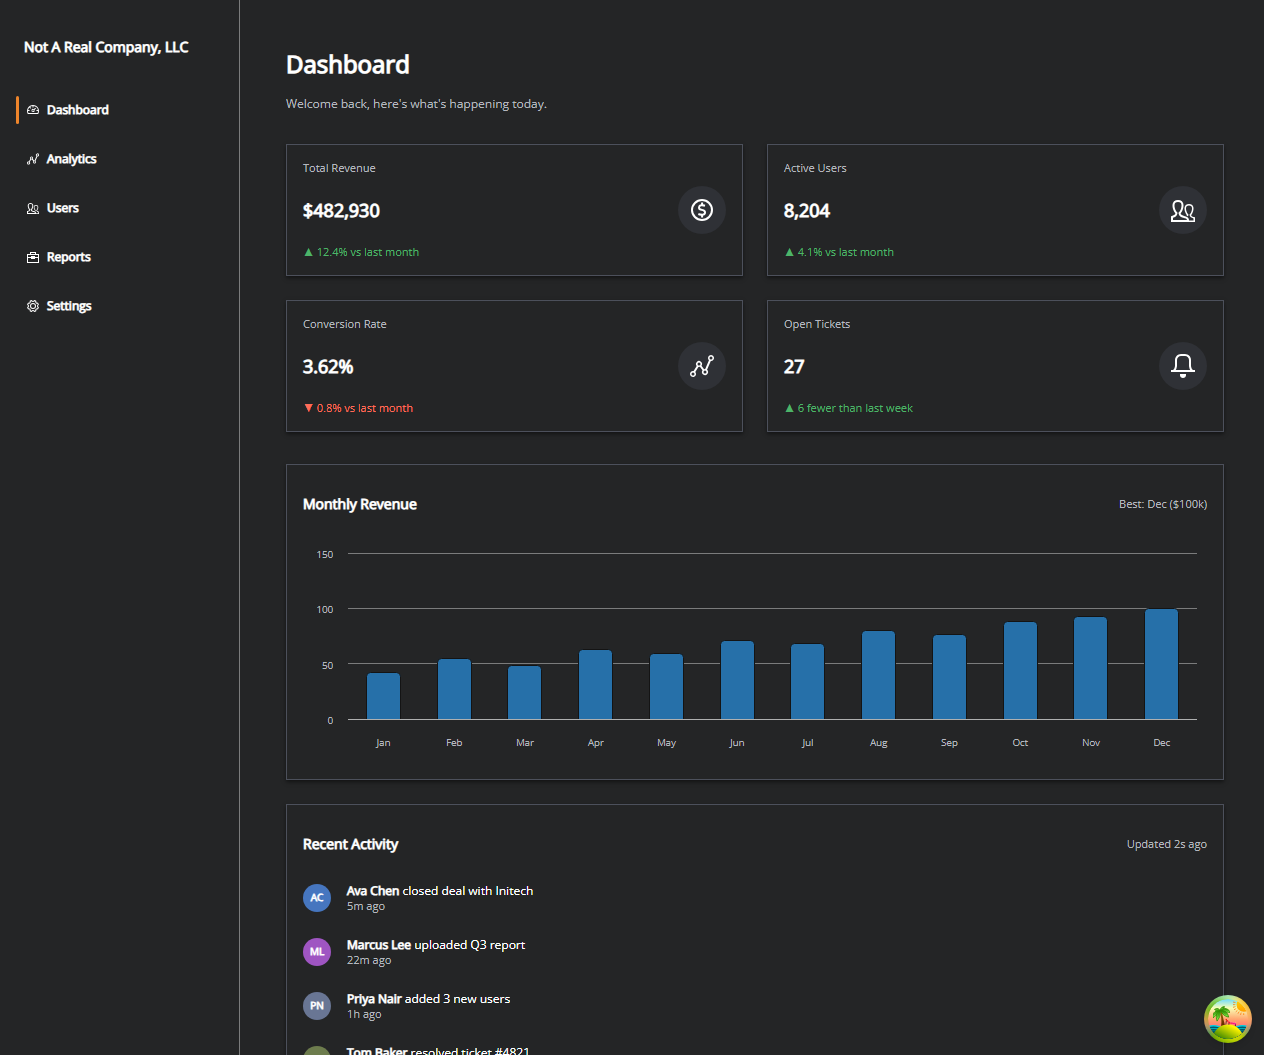
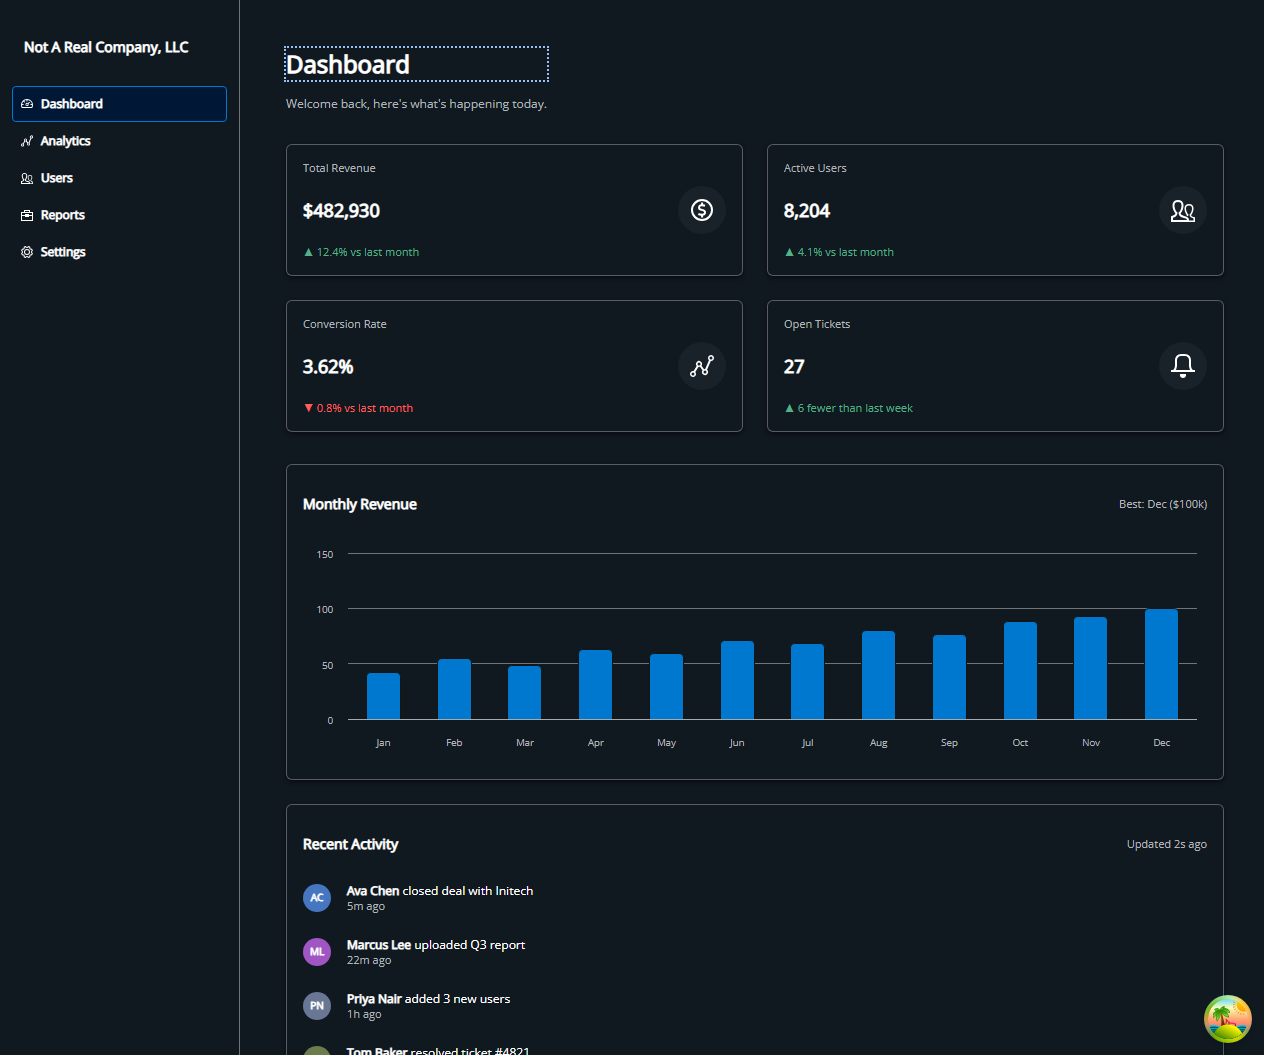
Switch to SaltProviderNext, fix nav styling to match Salt's docs
- Switch SaltProvider -> SaltProviderNext with corner="rounded" for
  rounded corners throughout. Required importing global.css +
  theme-next.css instead of the legacy index.css bundle, which ships
  zero [data-corner] rules in any published version.
- Sidebar nav: switch to bordered appearance, stretch item content to
  fill its row (was shrink-to-fit), and remove the trigger's vertical
  padding so items sit flush - matches Salt's own vertical-navigation
  examples instead of small inset chips with gaps between them.
- Update README and screenshots to reflect the current UI.

diff --git a/src/main.tsx b/src/main.tsx
@@ -2,8 +2,13 @@ import { StrictMode } from 'react'
 import { createRoot } from 'react-dom/client'
 import { QueryClient, QueryClientProvider } from '@tanstack/react-query'
 import { ReactQueryDevtools } from '@tanstack/react-query-devtools'
-import { SaltProvider } from '@salt-ds/core'
-import '@salt-ds/theme/index.css'
+import { SaltProviderNext } from '@salt-ds/core'
+// @salt-ds/theme/index.css is the legacy bundle and doesn't include the
+// [data-corner=rounded] (and other theme-next-only) rules that
+// SaltProviderNext actually needs - global.css + theme-next.css is the
+// pairing that matches it.
+import '@salt-ds/theme/css/global.css'
+import '@salt-ds/theme/css/theme-next.css'
 import '@fontsource/open-sans'
 import '@fontsource/pt-mono'
 import './index.css'
@@ -17,9 +22,9 @@ const queryClient = new QueryClient()
 createRoot(document.getElementById('root')!).render(
   <StrictMode>
     <QueryClientProvider client={queryClient}>
-      <SaltProvider>
+      <SaltProviderNext corner="rounded">
         <App />
-      </SaltProvider>
+      </SaltProviderNext>
       {/* Floating panel for inspecting the query cache live - strips itself
           out of production builds automatically. */}
       <ReactQueryDevtools initialIsOpen={false} />

diff --git a/src/test/renderWithProviders.tsx b/src/test/renderWithProviders.tsx
@@ -1,13 +1,13 @@
 import type { ReactElement, ReactNode } from 'react'
 import { render } from '@testing-library/react'
-import { SaltProvider } from '@salt-ds/core'
+import { SaltProviderNext } from '@salt-ds/core'
 import { QueryClient, QueryClientProvider } from '@tanstack/react-query'
 
 // Shared render helpers so individual test files don't each re-implement
 // "wrap this in the providers the real app wraps it in."
 
 export function renderWithSalt(ui: ReactElement) {
-  return render(<SaltProvider>{ui}</SaltProvider>)
+  return render(<SaltProviderNext corner="rounded">{ui}</SaltProviderNext>)
 }
 
 export function createTestQueryClient() {
@@ -22,9 +22,9 @@ export function createTestQueryClient() {
 export function renderWithQueryClient(ui: ReactElement) {
   const queryClient = createTestQueryClient()
   return render(
-    <SaltProvider>
+    <SaltProviderNext corner="rounded">
       <QueryClientProvider client={queryClient}>{ui}</QueryClientProvider>
-    </SaltProvider>,
+    </SaltProviderNext>,
   )
 }
 

diff --git a/src/App.css b/src/App.css
@@ -91,9 +91,21 @@
 
 /* Salt leaves align-items at its default ("normal", which behaves like
    stretch for a row) on the icon+label flex row, so the icon and text
-   don't sit on the same center line - nudge it to actually center them. */
+   don't sit on the same center line - nudge it to actually center them.
+   It also doesn't stretch this content box to fill its trigger's width,
+   so the bordered/filled active-item box only wraps snugly around the
+   icon+label instead of spanning the full row like Salt's own docs
+   examples show. */
 .sidebar .saltVerticalNavigationItemContent {
   align-items: center;
+  width: 100%;
+}
+
+/* Salt's own trigger padding (6px top/bottom) leaves the bordered/filled
+   box shorter than its <li> row, showing as a visible gap between
+   consecutive items - Salt's docs examples sit flush with no such gap. */
+.sidebar .saltVerticalNavigationItemTrigger {
+  padding-block: 0;
 }
 
 .theme-toggle {

diff --git a/src/App.tsx b/src/App.tsx
@@ -1,5 +1,5 @@
 import { useCallback, useEffect, useRef, useState } from 'react'
-import { SaltProvider, StackLayout, FlexLayout, H1, Text, Button, useBreakpoint } from '@salt-ds/core'
+import { SaltProviderNext, StackLayout, FlexLayout, H1, Text, Button, useBreakpoint } from '@salt-ds/core'
 import {
   DashboardIcon,
   ChartLineIcon,
@@ -118,7 +118,7 @@ function App() {
 
   return (
     <ThemeModeContext.Provider value={darkMode}>
-      <SaltProvider mode={darkMode ? 'dark' : 'light'} density={density}>
+      <SaltProviderNext mode={darkMode ? 'dark' : 'light'} density={density} corner="rounded">
         <div className="app-shell">
           <Sidebar
             active={active}
@@ -189,7 +189,7 @@ function App() {
             </StackLayout>
           </main>
         </div>
-      </SaltProvider>
+      </SaltProviderNext>
     </ThemeModeContext.Provider>
   )
 }

diff --git a/src/components/Sidebar.tsx b/src/components/Sidebar.tsx
@@ -54,7 +54,7 @@ function SidebarComponent({ active, onSelect, width, isMobile, open, onClose }: 
           </Button>
         )}
       </div>
-      <VerticalNavigation appearance="indicator">
+      <VerticalNavigation appearance="bordered">
         {NAV_ITEMS.map(({ label, icon: Icon }) => (
           <VerticalNavigationItem key={label} active={active === label}>
             <VerticalNavigationItemTrigger

diff --git a/README.md b/README.md
@@ -15,15 +15,16 @@ All data in the app is **simulated** — the Analytics page hits a fake in-memor
 - **Analytics** — three chart types (line, donut, bar) each backed by its own [TanStack Query](https://tanstack.com/query) hook, with real loading spinners and a deliberately-flaky endpoint to exercise the error + retry path
 - **Users** — a searchable, sortable table built on Salt's `Table` primitives (Salt has no built-in data-grid component with search/sort — this is hand-rolled on top of `Table`/`SearchInput`)
 - **Settings** — a "Workspace" panel for theme (light/dark), density (high/medium/low/touch), and resetting the sidebar's width
-- A **resizable sidebar** (drag or arrow-key resize, persisted to `localStorage`)
-- Light/dark mode and density are both real Salt theming levers (`SaltProvider`'s `mode`/`density` props), not just CSS
+- A **resizable sidebar** (drag or arrow-key resize, persisted to `localStorage`) that becomes an off-canvas drawer with a hamburger toggle below Salt's `xs` breakpoint (600px) — dragging a resizable column doesn't make sense on a phone-width screen, so it's disabled entirely there rather than left broken
+- Light/dark mode and density are both real Salt theming levers (`SaltProviderNext`'s `mode`/`density` props), not just CSS
+- Rounded corners and bordered, full-width sidebar navigation via `SaltProviderNext`'s `corner="rounded"`, matching [Salt's own vertical-navigation examples](https://www.saltdesignsystem.com/salt/components/vertical-navigation/examples)
 
 ## Tech stack
 
 | | |
 |---|---|
 | Framework | React 19 + TypeScript, Vite |
-| Design system | `@salt-ds/core`, `@salt-ds/lab`, `@salt-ds/icons`, `@salt-ds/theme` |
+| Design system | `@salt-ds/core` (`SaltProviderNext`), `@salt-ds/lab`, `@salt-ds/icons`, `@salt-ds/theme` |
 | Charts | Highcharts via `highcharts-react-official` |
 | Data fetching | TanStack Query |
 | Testing | Vitest + React Testing Library |
@@ -75,6 +76,8 @@ Each hook's source comments explain *why* it's written the way it is (e.g. why `
 - **Context, used narrowly.** `ThemeModeContext` exists so `RevenueChart` (nested two levels below `App`, inside `DashboardPage`) can read `darkMode` without `DashboardPage` — which doesn't otherwise care about the theme — having to accept and forward a prop. It's not used as a blanket alternative to props anywhere else in the app.
 - **One `QueryClient`**, created once in `main.tsx` and provided at the root, same as you'd do in a real app.
 - **`ChartCard`** centralizes the loading-spinner / error-plus-retry / success rendering so each Analytics chart component only deals with its own data shape.
+- **`ResponsiveHighcharts`** wraps every chart with a `ResizeObserver` that calls `chart.reflow()` — Highcharts only re-measures on the browser `window`'s resize event by default, so a chart's SVG otherwise stays stale-sized when its *container* shrinks for any other reason (like the sidebar being dragged), which visibly overflowed its card until this was added.
+- **Responsive nav via `useBreakpoint`**, not a hand-rolled media-query hook — it reads the same Salt breakpoint context that already drives this app's `GridLayout` responsive `columns` props, so there's one source of truth for what "mobile" means across the whole app.
 
 ## Bugs found along the way
 
@@ -83,6 +86,9 @@ Building this surfaced a few real upstream issues, fixed and documented in place
 - **`@salt-ds/core@1.68.0` / `@salt-ds/lab` currently depend on `@salt-ds/icons@^1.18.2`, which was never published to npm** (`1.18.0` is latest). Pinned to the last mutually-compatible version set in `package.json` instead.
 - **`VerticalNavigationItemTrigger`'s hover overlay has no positioned ancestor** in this Salt version, so it expands to cover the entire nav list instead of just its own row — only the last nav item ever received clicks. Fixed with one CSS rule (`src/App.css`).
 - **`highcharts-react-official`'s UMD build isn't statically analyzable by esbuild's CJS→ESM interop**, so a plain default import resolves to the whole module's exports object instead of the component. `src/lib/HighchartsReact.ts` unwraps it once for every chart to reuse.
+- **`corner="rounded"` (and the other `SaltProviderNext`-only theming props) render as a no-op if you import `@salt-ds/theme/index.css`** — that's the legacy bundle, and it ships zero `[data-corner]` CSS rules in any published version. The fix is importing `@salt-ds/theme/css/global.css` + `@salt-ds/theme/css/theme-next.css` instead (`src/main.tsx`).
+- **`VerticalNavigationItemContent` doesn't stretch to fill its trigger's width**, and the trigger's own vertical padding leaves a visible gap between consecutive items — neither matches Salt's own docs examples, where bordered nav items span the full row and sit flush against each other. Two targeted CSS rules in `src/App.css` fix both.
+- **CSS Grid items default to `min-width: auto`**, so they won't shrink below their content's natural size — combined with the stale-Highcharts-width issue above, a chart card's oversized SVG could inflate its *entire shared grid track* and drag a neighboring card (like Recent Activity, which has no oversized content of its own) into overflow right along with it. Fixed alongside the `ResponsiveHighcharts` reflow fix as belt-and-suspenders.
 
 ## Testing
 
@@ -92,4 +98,4 @@ Vitest + React Testing Library, run against `jsdom`. A few polyfills were needed
 - `matchMedia`, `ResizeObserver` (used by Salt's theme/breakpoint code)
 - `CSS.supports` (checked by Highcharts at module-load time)
 
-Coverage focuses on things with actual logic to break: every custom hook, the simulated API layer (including the flaky-endpoint and retry-disabled paths), interactive components (`ChartCard`'s three states, `Sidebar` navigation, `ResizeHandle`), the `Users` page's search/sort behavior, and `App`-level navigation/focus/title behavior. Purely presentational chart-wiring components aren't unit tested — that would mostly be re-testing Highcharts, not this codebase.
+Coverage focuses on things with actual logic to break: every custom hook, the simulated API layer (including the flaky-endpoint and retry-disabled paths), interactive components (`ChartCard`'s three states, `Sidebar` navigation and its mobile-drawer behavior, `ResizeHandle`), the `Users` page's search/sort behavior, and `App`-level navigation/focus/title behavior. Purely presentational chart-wiring components aren't unit tested — that would mostly be re-testing Highcharts, not this codebase.
